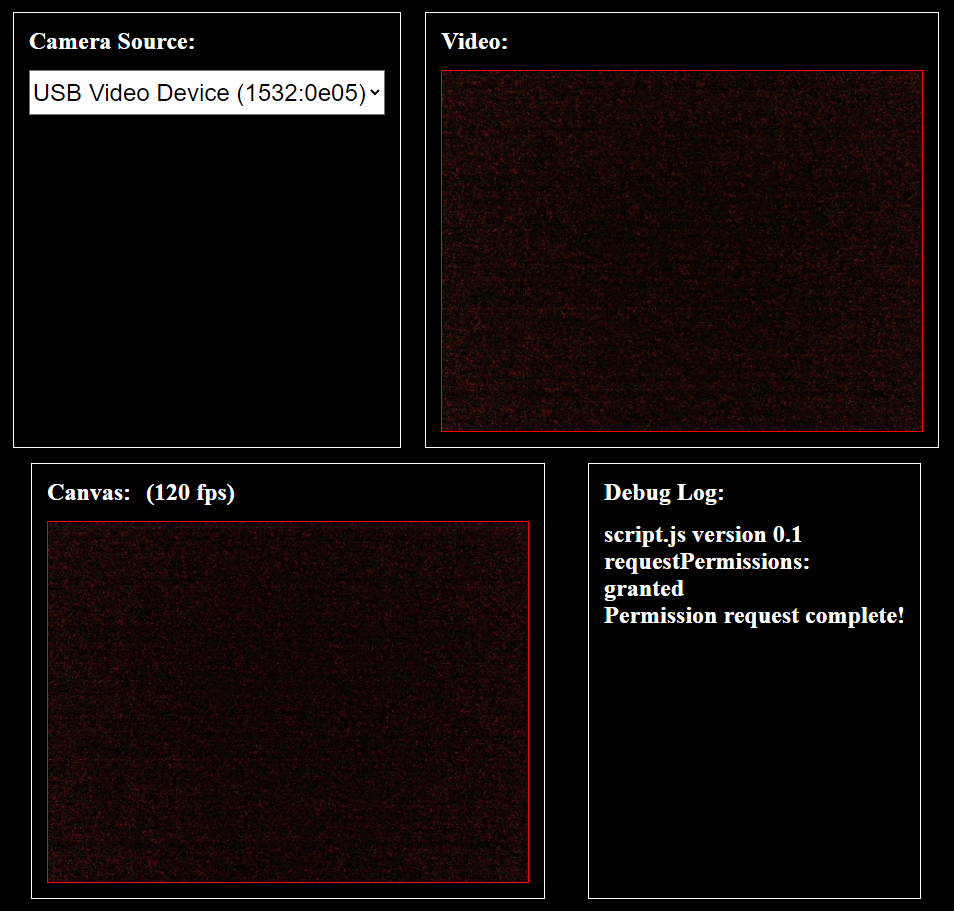
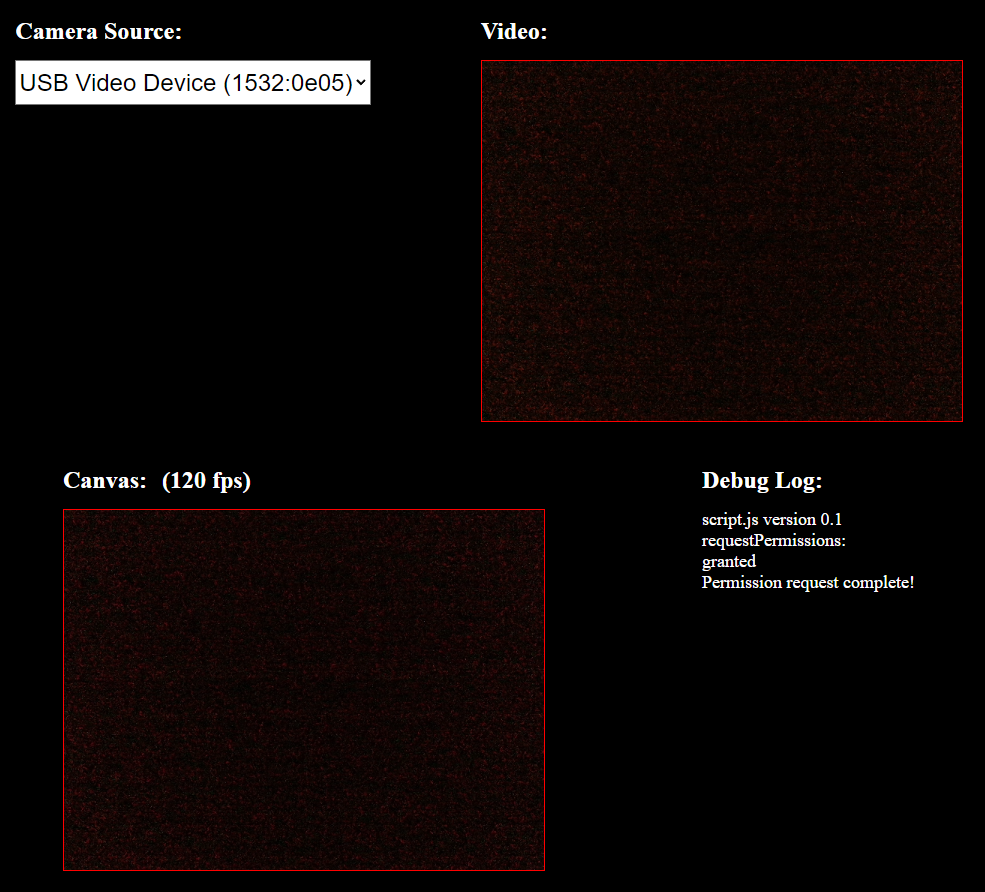
Updated screenshot

Changed region(s): [[0.0304, 0.0, 1.0, 0.9989], [0.0, 0.0, 0.4256, 0.1513], [0.3344, 0.5448, 0.5168, 0.5751]]

diff --git a/index.html b/index.html
@@ -13,8 +13,7 @@
       zoom: 75%;
     }
 
-    .div-border {
-      border: solid 1px white;
+    .div-section {
       padding: 20px;
     }
 
@@ -37,17 +36,17 @@
 
   <div style="display: flex; flex-direction: row; justify-content: space-evenly; flex-wrap: wrap; gap: 20px;">
 
-    <div id="panelCamera" class="div-border" style="display: flex; flex-direction: column;">
+    <div id="panelCamera" class="div-section" style="display: flex; flex-direction: column;">
       <div class="div-large div-header">Camera Source:</div>
       <select id="cameraSource" style="min-width: 250px; height: 60px; font-size: 2em"></select>
     </div>
 
-    <div class="div-border" style="display: flex; flex-direction: column;">
+    <div class="div-section" style="display: flex; flex-direction: column;">
       <div class="div-large div-header">Video:</div>
       <video class="div-video" id="video" width="640" height="480" autoplay></video>
     </div>
 
-    <div class="div-border" style="display: flex; flex-direction: column;">
+    <div class="div-section" style="display: flex; flex-direction: column;">
       <div style="display: flex; flex-direction: row;">
         <div class="div-large div-header">Canvas:</div>
         <div class="div-large" style="margin-left: 20px">(</div>
@@ -57,9 +56,9 @@
       <canvas class="div-video" id="canvasRender" width="640" height="480"></canvas>
     </div>
 
-    <div class="div-border" style="display: flex; flex-direction: column;">
+    <div class="div-section" style="display: flex; flex-direction: column;">
       <div class="div-large div-header">Debug Log:</div>
-      <div class="div-large" id="debugLog"></div>
+      <div id="debugLog" style="font-size: 1.5em"></div>
     </div>
 
   </div>
